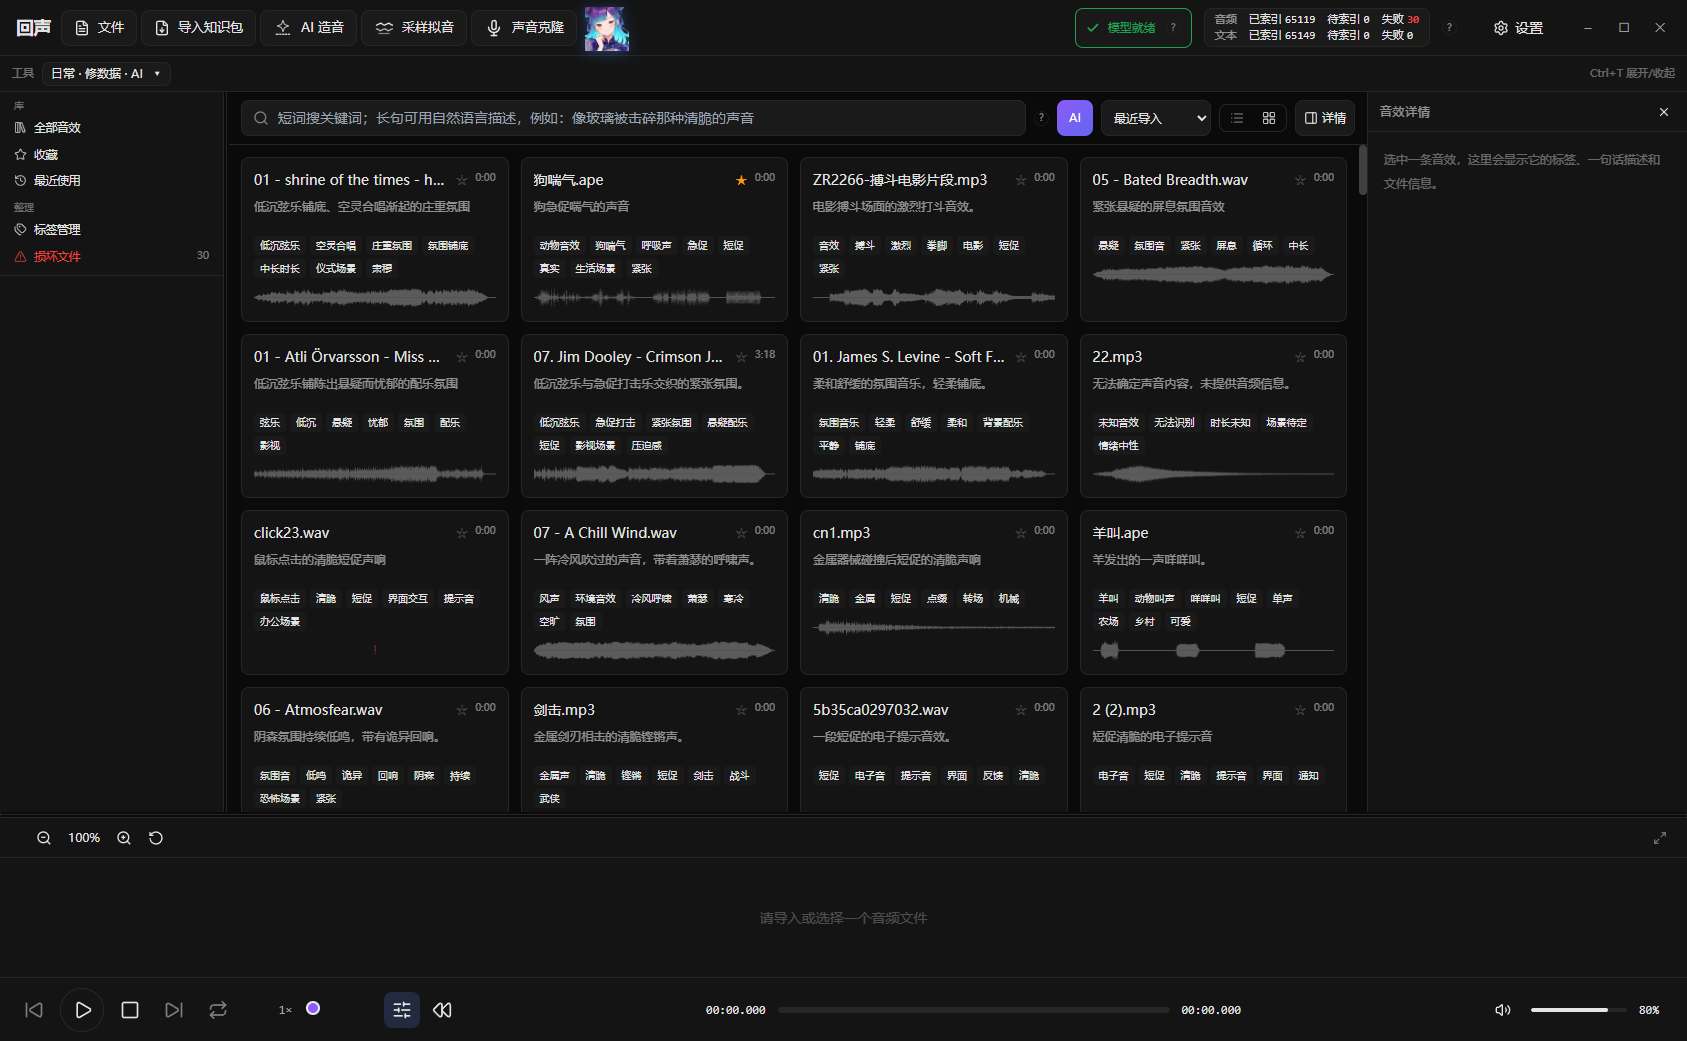
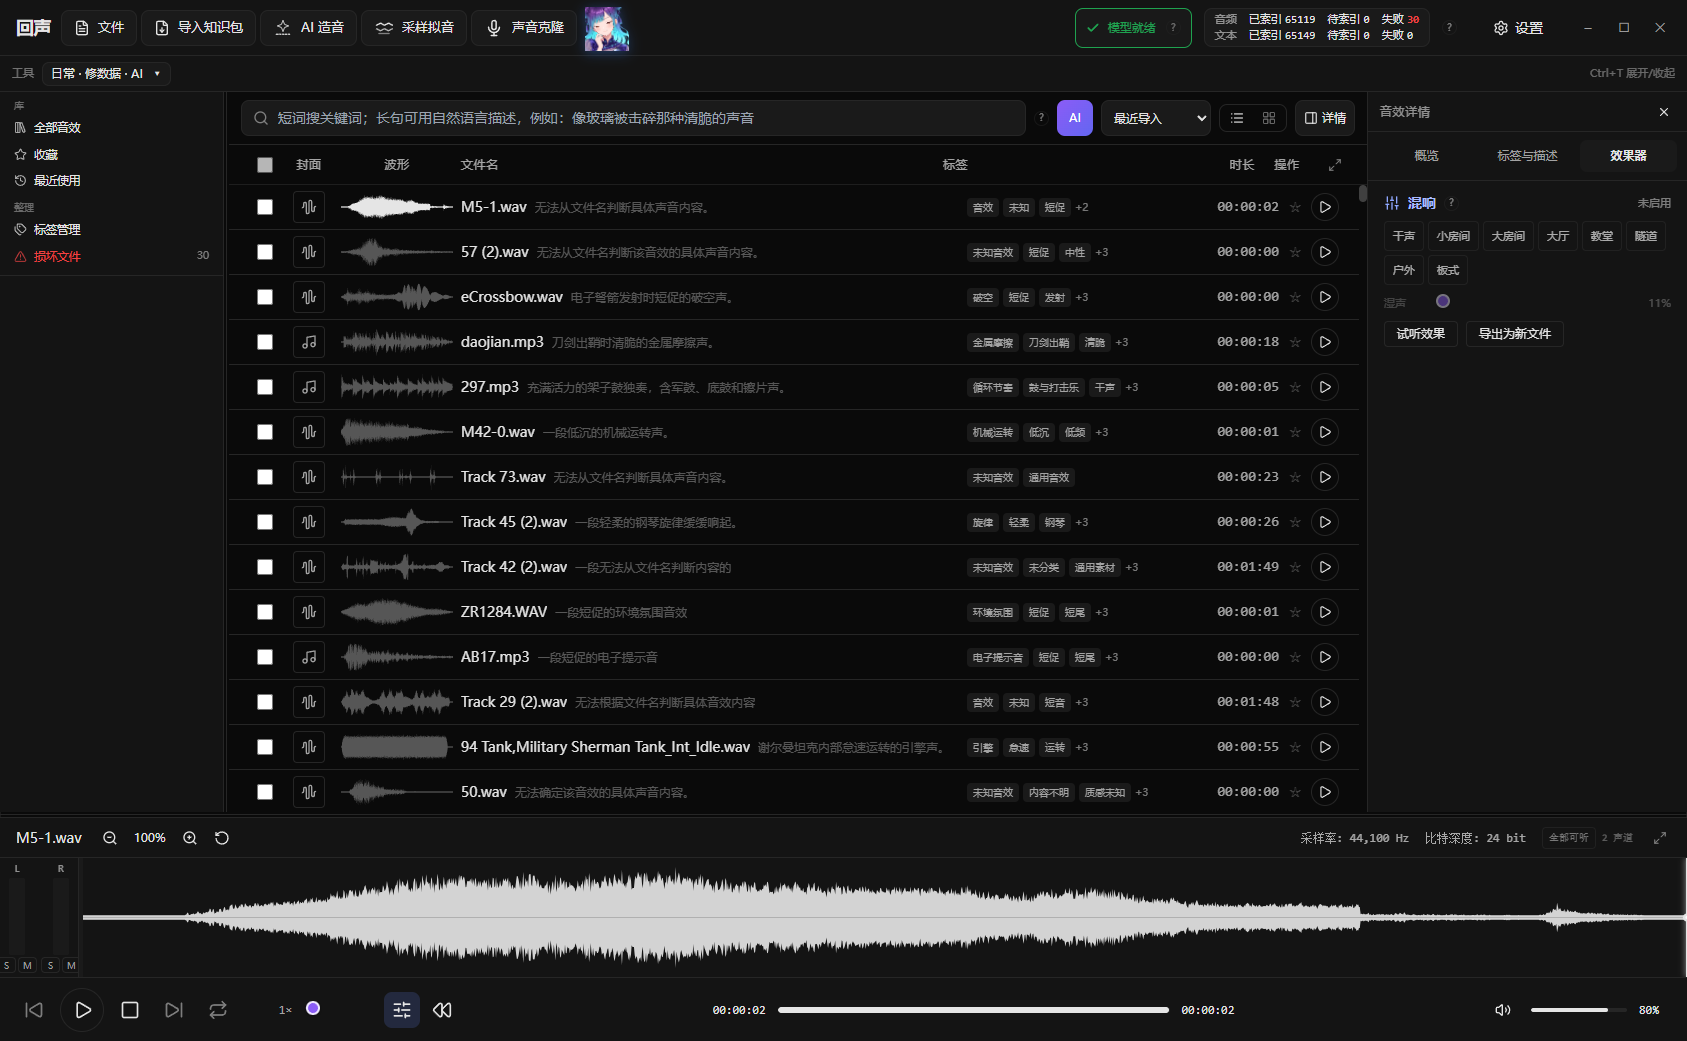
docs: 删掉 README 里的「V12 新增了什么」旧段落与旧界面截图；详情两页换成列表视图实拍，英文 README 同步补图

diff --git a/README.md b/README.md
@@ -47,21 +47,6 @@
 > 这是测试版本，升级前建议备份用户数据目录 `%APPDATA%\EchoMind`。
 
 
-### V12 新增了什么
-
-![回声 EchoMind V12 主界面](assets/screenshots/main-v12.png)
-
-| 功能 | 说明 |
-| --- | --- |
-| **AI 助理形象 + 少女音** | 顶部导航栏的形象会跟着语音做口型；回复用本地 Breeze 合成，装完即可离线朗读 |
-| **声道电平表** | 波形左侧新增电平条，支持到 5.1（最多 6 条，L/R/C/LFE/SL/SR），可拖宽、可 S/M 单独听，S+M 同时选就是静音 |
-| **AI 分轨** | 一键拆成人声/鼓/贝斯/其他四轨；结果先放临时区，逐条试听、勾选、自己选文件夹另存，**不会写进原文件夹** |
-| **去人声** | 立体声音乐做人声消除生成伴奏；先自动检查声道，单声道会提前挑出来说明原因 |
-| **搜索结果带描述和标签** | AI 搜索命中的每条结果都会补上系统标签和一句话描述，和普通列表一致 |
-| **搜索历史** | 改成横向 chip 自动换行，搜完自动收起，不再挡着结果列表 |
-| **损坏文件清理** | 一键清理从「30 秒一个」变成「173 个 3 秒」，只删库记录、磁盘原文件不动 |
-| **索引更稳** | 增加「向量接管」：collection 里已经算好的向量按内容指纹接管回 ready，不再整库重算；单任务有上限，跑完自动续 |
-
 ### 关于匿名统计
 
 软件默认会做一次**匿名使用统计**：每次启动上报「启动次数、当天启动、版本号、操作系统平台、首次安装」

diff --git a/README.en.md b/README.en.md
@@ -51,10 +51,13 @@ names, tags, descriptions, or anything that identifies a person. You can turn it
 **Main window: folder tree + AI descriptions + waveform**
 
 ![Main window](assets/screenshots/main.png)
+![Detail panel](assets/screenshots/ui-detail-tags.png)
+![Card view](assets/screenshots/main-v12.png)
 
 **Generate a new sound effect from a sentence**
 
-![Sound generation](assets/screenshots/generate.png)
+![AI sound generation](assets/screenshots/generate.png)
+![Sample-based foley](assets/screenshots/ui-recipe.png)
 
 **Batch AI descriptions, with a portable description pack**
 
